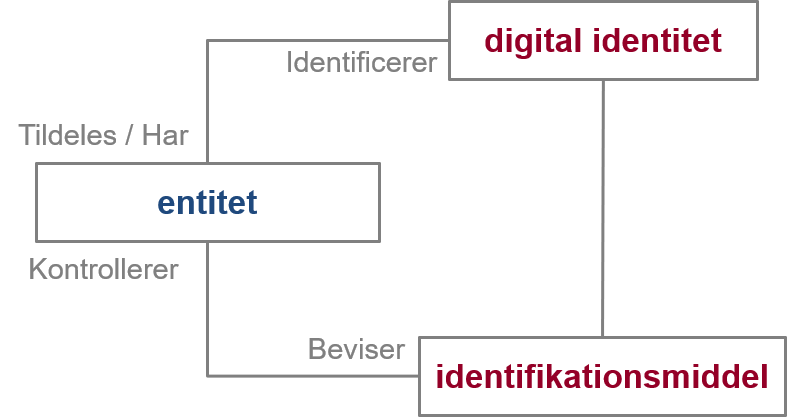
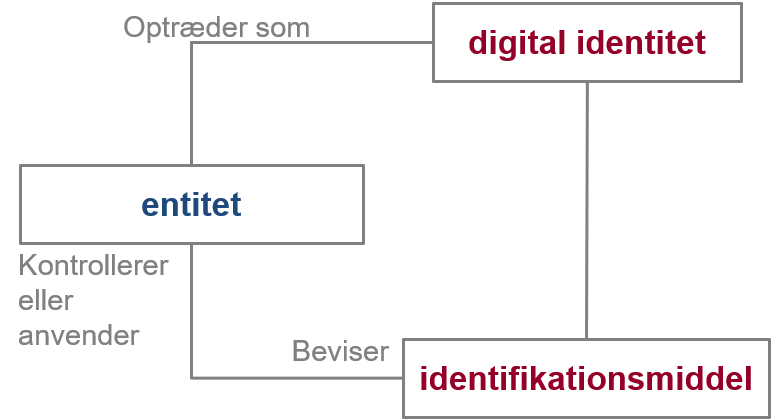
MK rettelser indført

diff --git a/index.md b/index.md
@@ -25,7 +25,8 @@ Slim Build Artifact:
 <h2 class="no-num">Forord</h2>
 Denne referencearkitektur er udarbejdet for at understøtte implementeringen af Den fællesoffentlige digitaliseringsstrategi 2016-2020 [1] og gennemføre initiativ 5 i Fællesoffentlig strategi for brugerstyring [10]. Målet er, at referencearkitekturen skal fungere som et teknisk pejlemærke for udvikling af brugerstyringsløsninger i den offentlige sektor. Den er en del af den fællesoffentlige rammearkitektur, der er affødt af Digitaliseringsstrategiens initiativ 8.1 og bidrager til realiseringen af ”En digitalt sammenhængende offentlig sektor: Hvidbog om arkitektur for digitalisering” [2].
 
-2017-udgaven af referencearkitekturen [3] omfattede brugerstyring af personer. Denne udgave af referencearkitekturen (version 1.1) er udvidet med de særlge aspekter vedrørende applikationer som brugere og i noget omfang apparater, da der er behov for brugerstyring i forhold til såkaldt NPE - Non person entities og IoT - Internet of Things. Brugen af føderationer og tillidstjenester er uddybet.
+2017-udgaven af referencearkitekturen [3] omfattede brugerstyring af personer. Denne udgave af referencearkitekturen (version 1.1) er udvidet med de særlge aspekter vedrørende brugerstyring for apparater, organisationer og applikationer - samlet betegnet som Non-Person Entities (NPE) og IoT - Internet of Things.
+Brugen af føderationer og tillidstjenester er uddybet.
 
 Siden første udgave af referencearkitekturen er De fællesoffentlige regler for begrebs- og datamodellering [4] blevet godkendt og udgivet. Derfor er begreberne i denne udgave opdateret og modelleret jfr. disse regler. Figurerne [nr. indsættes] viser centrale dele af begrebsmodellern og Bilag [nr. indsættes] viser hele begrebsmodellen i listeform. Øvrige figurer, der illustrerer referencearkitekturen, følger begrebsmodellen mht. anvendelse af begreber, men indgår ikke som en del af begrebsmodellen.
 
@@ -101,7 +102,7 @@ I en digital sammenhæng defineres brugere som den rolle en entitet har i forhol
 Det er vigtigt at være opmærksom på dynamikken og fleksibiliteten i ovenstående model. Eksempelvis kan en fysisk person have mange forskellige identiteter og mange forskellige identifikationsmidler. Et bestemt identifikationsmiddel er ikke nødvendigvis koblet til en bestemt identitet og omvendt.
 
 ### Typer af brugere
-I forbindelse med brugerstyring kan brugere være personer eller organisationer med rettigheder og pligter, som kan delegere. Brugere kan også være apparater eller applikationer, der ikke i sig selv har juridiske rettigheder eller pligter, men som kan arve rettigheder via delegation og dermed agere på vegne af personer.
+I forbindelse med brugerstyring kan brugere være personer eller organisationer med rettigheder og pligter, og mulighed for at delegere rettigheder. Brugere kan også være apparater eller applikationer, der ikke i sig selv har juridiske rettigheder eller pligter, men som kan arve rettigheder via delegation og dermed agere på vegne af personer.
 
 <figure>
 <img src="Brugertyper.png" width="80%"/>
@@ -112,9 +113,9 @@ I forbindelse med brugerstyring kan brugere være personer eller organisationer 
 
 *Organisation* en organisation, der -især i juridisk forstand- er bredt anerkendt og har tilhørende rettigheder og ansvar. Adgange og rettigheder kan delegeres til medarbejder eller applikation.
 
-*Apparat* fysisk redskab med indlejret software, der kan udføre specifikke funktioner. Apparater der kan opræde som brugere vil have et indlejret program som er uløseligt forbundet med apparatetet. Der er typisk tale om apparater der har en enkelt funktion og ikke kan få installeret yderligere programmer, hvorfor apparatet optræder som bruger.
+*Apparat* fysisk redskab med indlejret software, der kan udføre specifikke funktioner. I apparater der kan optræde som brugere er den indlejret software uløseligt forbundet med apparatet. Der er typisk tale om apparater der har en enkelt funktion og ikke kan få installeret yderligere applikationer, hvorfor apparatet optræder som bruger.
 
-*Applikation* software med specifik forretningsfunktion. Applikationer er uafhængige af den platform, de er installeret på. Applikationer der kan optræde som brugere vil være installeret på noget hardware, men kunne flyttes fra et stykke hardware til et andet unden at ændre identitet, hvorfor det er applikationen der optræder som bruger.
+*Applikation* software med specifik forretningsfunktion. Applikationer er uafhængige af den platform, de er installeret på. Applikationer der kan optræde som brugere vil være installeret på noget hardware, men kunne flyttes fra et stykke hardware til et andet uden at ændre identitet, hvorfor det er applikationen der optræder som bruger.
 
 
 ### Begrebsoverblik
@@ -240,7 +241,7 @@ Dette afsnit beskriver  et sæt principper for brugerstyring. Myndigheder og lev
 ### Princip 1: Brugerne oplever en relevant og sammenhængende adgangsstyring
 Brugere vil i deres opgaveløsning og dialog med det offentlige skulle betjene sig af en række forretningstjenester og disse bør opleves sammenhængende, uanset hvor mange tjenester eller myndigheder, der er involveret i et (selvbetjening)forløb.
 
-Princippet understøtter særligt FDA arkitekturprincip 4: Sikkerhed, privatliv og tillid sikres, samt princip 5: Processer optimeres på tværs og princip
+Princippet understøtter særligt FDA arkitekturprincip 4: Sikkerhed, privatliv og tillid sikres, samt princip 5: Processer optimeres på tværs.
 
 *Rationale*
 
@@ -258,7 +259,7 @@ Princippet understøtter særligt FDA arkitekturprincip 4: Sikkerhed, privatliv 
 - Kravene til sikringsniveau i digitale forløb skal svare til det sikkerhedsniveau, der kræves af de enkelte tjenester, der indgår i forløbet.
 
 
-## Princip 2: Brugerstyringsløsninger respekterer brugernes privatliv
+### Princip 2: Brugerstyringsløsninger respekterer brugernes privatliv
 Brugerstyringsløsninger skal beskytte information om brugerne og sikre fortrolighed, og bør indhente og udveksle så lidt information som muligt ud fra princippet om dataminimering.
 
 Princippet understøtter særligt FDA arkitekturprincip 4: Sikkerhed, privatliv og tillid sikres.
@@ -480,7 +481,7 @@ I NSIS opereres der med, at identiteten kan valideres på tre forskellige sikrin
 
 Efter oprettelse af den elektroniske identitet skal et identifikationsmiddel tilknyttes til identiteten, fx kodeord, PIN, fingeraftryk. Identifikationsmidler anvendes til at autentificere identiteten i modsætning til attributter, som beskriver identiteten. En udsteder af identifikationsmidler skal dels sikre sammenhængen mellem identifikationsmidlet og identiteten, og dels stå inde for identifikationsmidlets tekniske styrke - se næste afsnit. Udstederen kan knytte allerede udstedte identifikationsmidler til identiteten eller udstede et nyt identifikationsmiddel og tilknytte dette til identiteten. Styrken af identifikationsmidler er ligeledes klassificeret i NSIS og tager afsæt i bl.a. antallet af autentifikationsfaktorer, hvor resistent det er mod angreb, samt andre sikkerhedsmæssige egenskaber.
 
-Det er centralt i denne referencearkitektur, at der opereres med en løs kobling mellem identiteter og identifikationsmidler. Eksempelvis kan et identifikationsmiddel benyttes til at autentificere flere forskellige identiteter hørende til samme entitet. Et eksempel på dette i fællesoffentlig kontekst er, når samme private NemID/MitID kan bruges til autentificere både en privatperson og en ejer (fuldt ansvarlig deltager) af en enkeltmandsvirksomhed. Brugeren skal altid i brugssituationen være oplyst om, hvilken elektronisk identitet vedkommende optræder med.
+Det er centralt i denne referencearkitektur, at der opereres med en løs kobling mellem identiteter og identifikationsmidler. Eksempelvis kan et identifikationsmiddel benyttes til at autentificere flere forskellige identiteter hørende til samme entitet. Et eksempel på dette i fællesoffentlig kontekst er, når samme private NemID/MitID kan bruges til at autentificere både en privatperson og en ejer (fuldt ansvarlig deltager) af en enkeltmandsvirksomhed. Brugeren skal altid i brugssituationen være oplyst om, hvilken elektronisk identitet vedkommende optræder med.
 
 CPR-nummeret er en attribut, som desværre også historisk er brugt som identifikationsmiddel - dvs. som bevis for identitet. Denne anvendelse af CPR-nummeret er imod regler fra CPR-kontoret, men anvendes stadig i et vist omfang.
 
